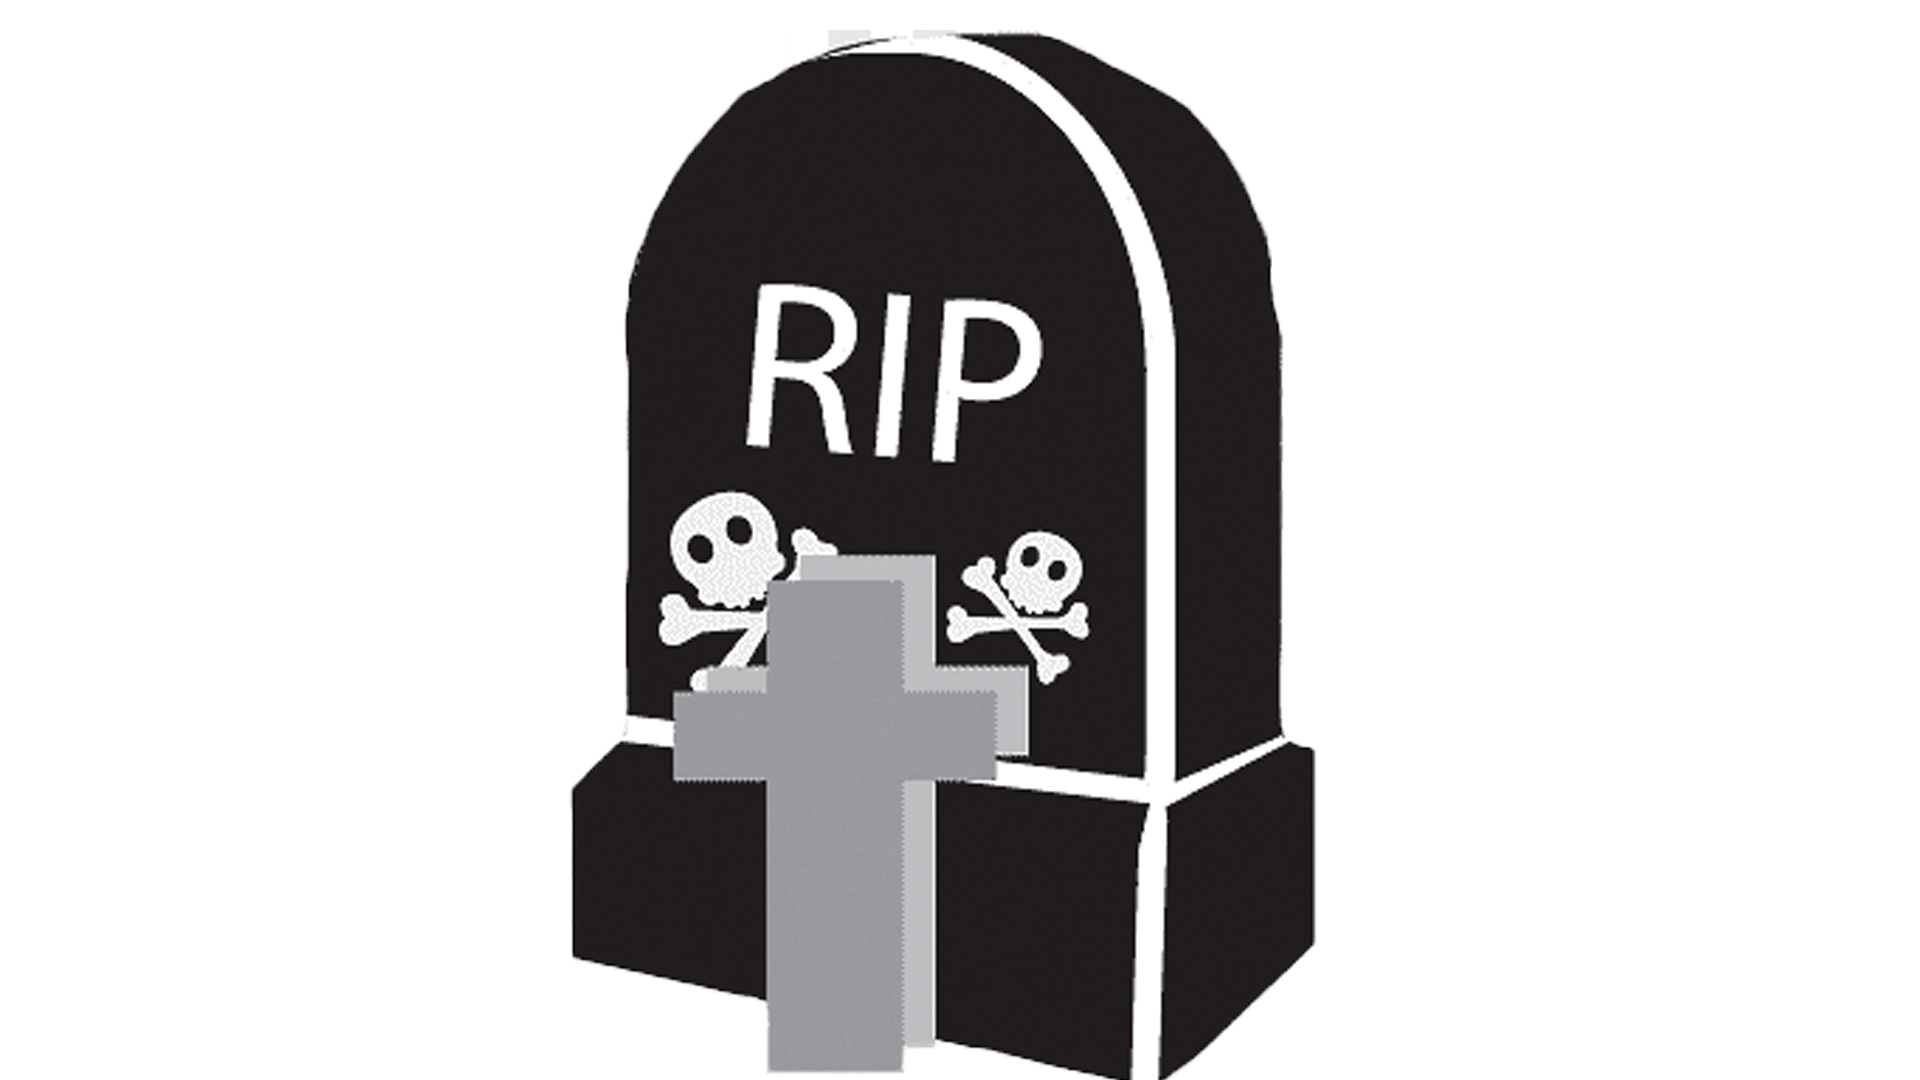
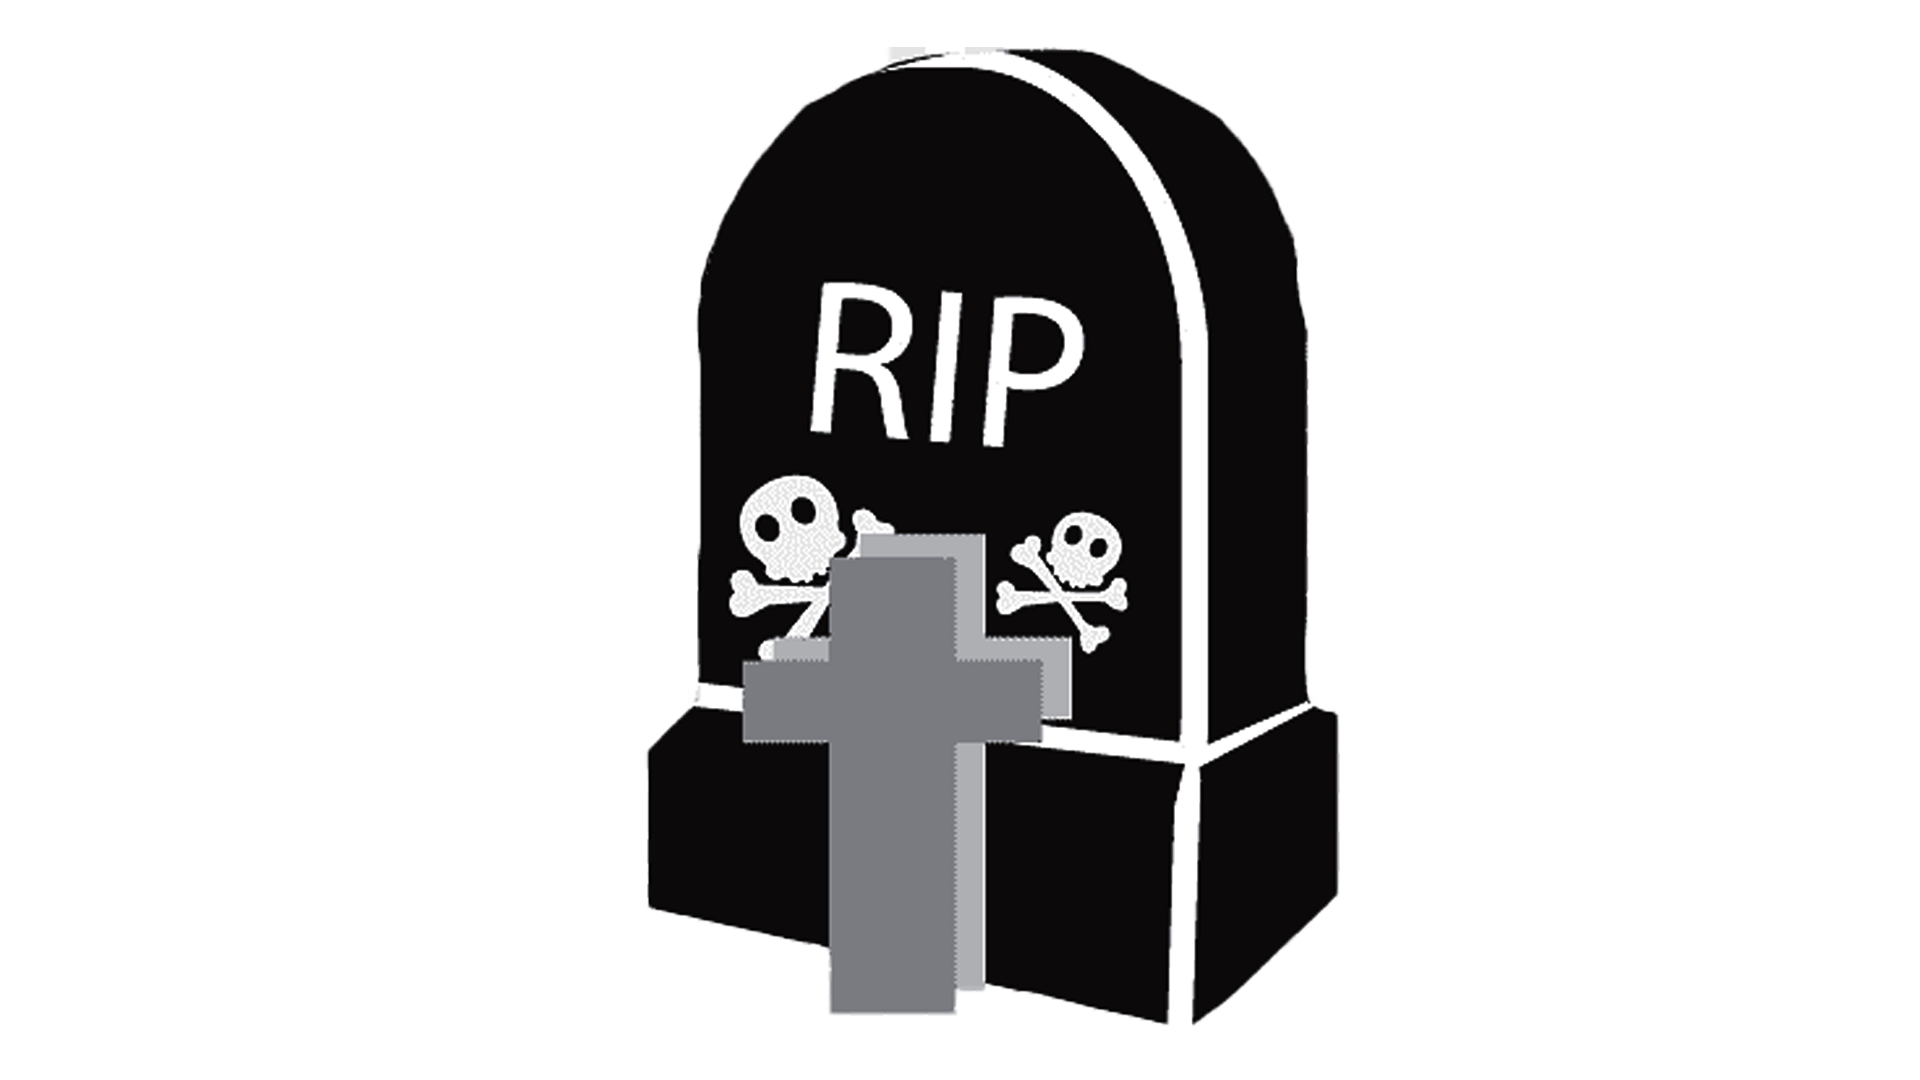
cambios en css

Changed region(s): [[0.2812, 0.0306, 0.7188, 1.0]]

diff --git a/css/css.css b/css/css.css
@@ -1,4 +1,10 @@
-
+#pantalla1{
+    background-image: url(../multimedia/fondo-tenebroso.png);
+    background-position: 100%;
+    height: 100%;
+    width: 100%;
+    position: absolute;
+}
 
 header{
     color:#938c8c; 
@@ -8,19 +14,12 @@ header{
     position: fixed;
     font-weight: bolder;  
     margin-top: 1%;  
-}
-
-#fondo{
- background-position: 100%;
- height: 100%;
- width: 100%;
- position: absolute;
-
+    padding-right: 2%;
 }
 
 #titulo{
-  width: 50%;
-  margin-left: 25%;
+  width: 60%;
+  margin-left: 21%;
   margin-top: 5%;
   position: relative;
 }
@@ -31,6 +30,7 @@ h2{
     color:white; 
     font-size: xx-large;
     position: relative;
+    margin-bottom: 2%;
     
 }
 
@@ -49,7 +49,7 @@ input{
     background-color: rgb(181, 177, 178);
     font-size: xx-large;
     border-radius: 15px;
-    margin-top: 2%;
+    margin-top: 4%;
     margin-left: 38%;
     cursor: pointer;
     color:black; 
@@ -80,11 +80,6 @@ input{
     
   }
 
-#fondo2 {
-    width: 100%;
-    height: auto;
-    position: absolute;
-} 
 
 #bombita{
     margin-top: 1%;
@@ -100,10 +95,7 @@ input{
     width: 30%;
     margin-left: 3%;
     
-  
 }
-
-
 
 #contenedor-de-tiempo{
     display: flex;
@@ -169,7 +161,6 @@ p{
     position: relative;
    
 }
-
 
 
 #cable1{
@@ -282,7 +273,7 @@ p{
 
 #looser{
     width: 36%;
-    margin-top: 2%;
+    margin-top: 0%;
     margin-left: 30%;
     margin-bottom: 1%;
 
@@ -291,13 +282,13 @@ p{
 #rip{
     width: 60%;
     margin-top: 2%;
-    margin-left: 21%;
+    margin-left: 18%;
     margin-bottom: 5%;
 }
 
 #jugardenuevol{
     font-size: xx-large;
-    width: 30%;
+    width: 28%;
     margin-left: 35%;
     cursor: pointer;
     font-family: Arial, "Helvetica Neue", Helvetica, sans-serif;

diff --git a/index.html b/index.html
@@ -14,7 +14,6 @@
 
 <section class="pantallas" id="pantalla1">
 <audio src="./multimedia/musica-fondo-pantalla-1.m4a" type="audio/mpeg" autoplay="autoplay" loop="loop"></audio>
-<img id="fondo" src="./multimedia/fondo-tenebroso.png">
 <img id="titulo" src="multimedia/bomba-de-tiempo-text.png">
 <div id="centrar">
 
